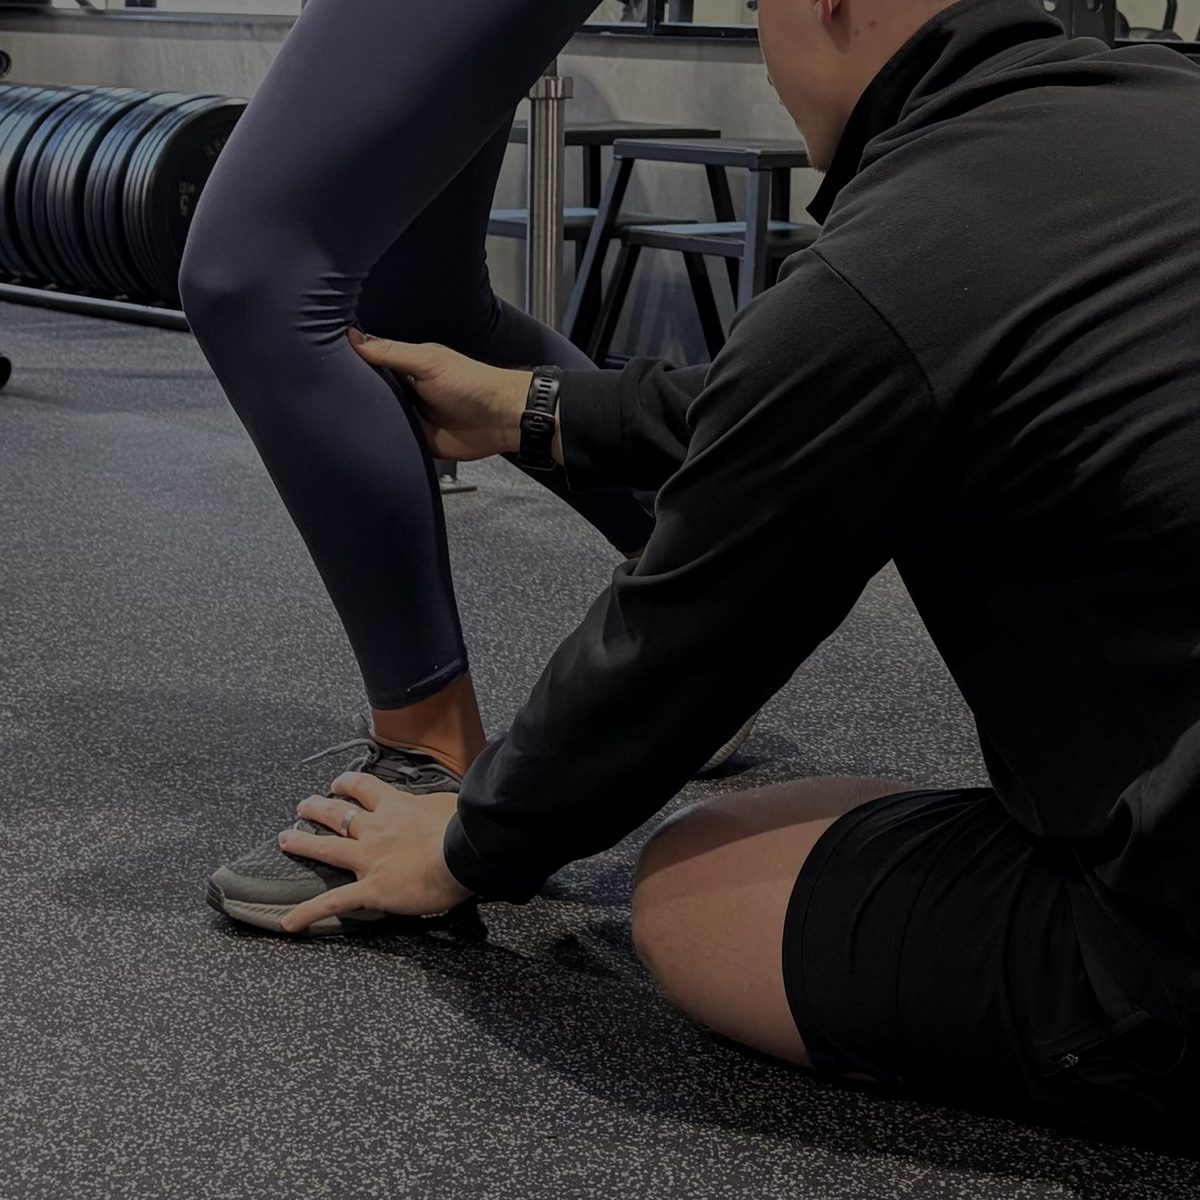
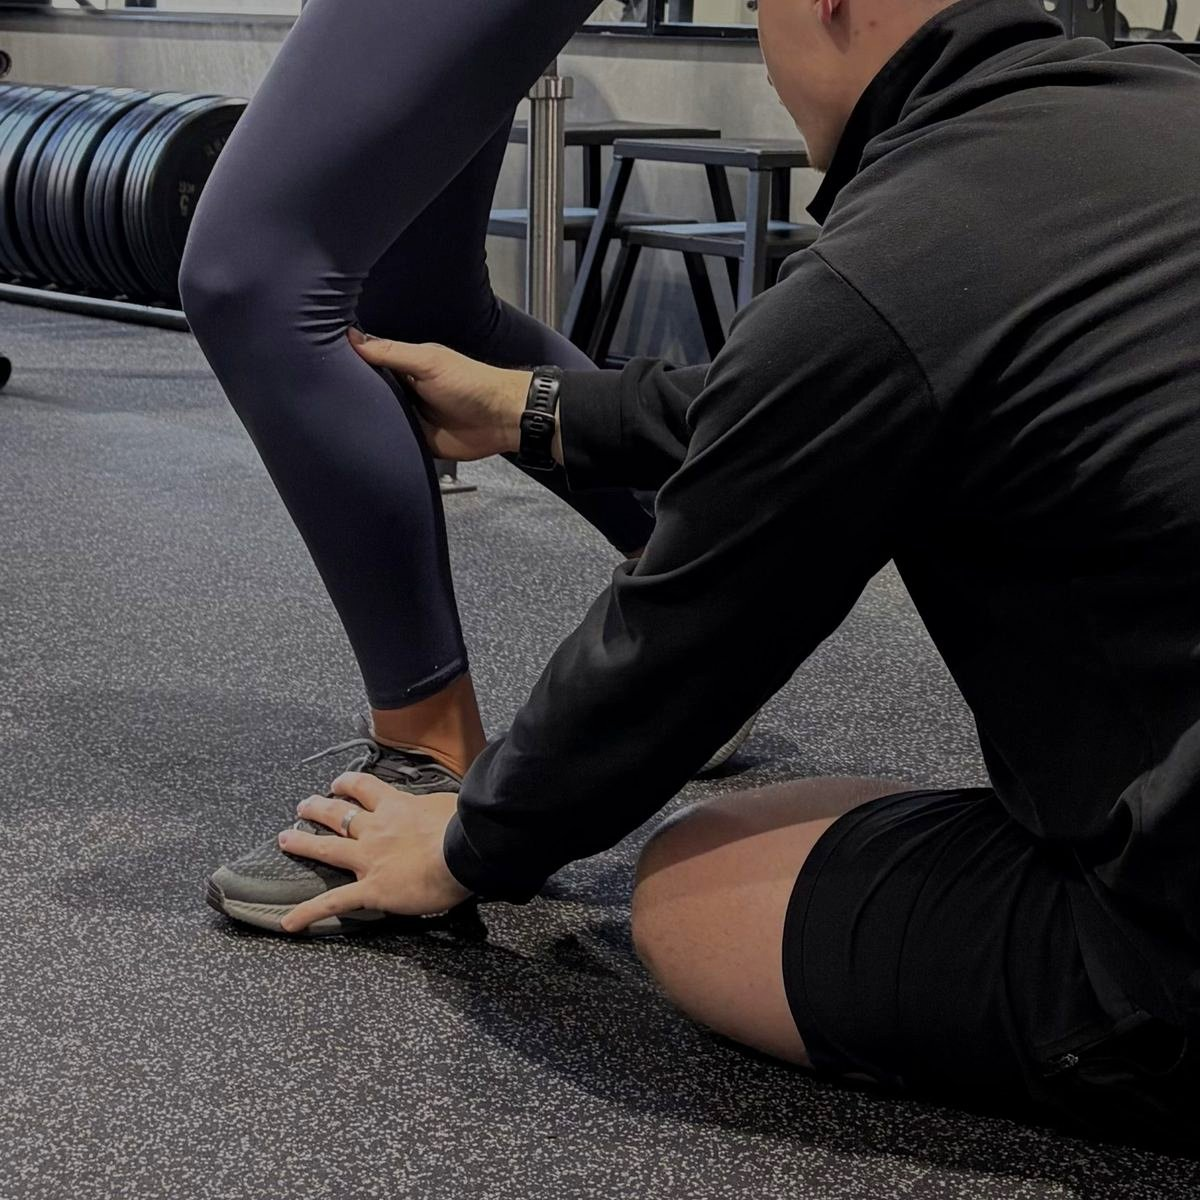
Add files via upload

diff --git a/mitch-scott-rehab 4/styles.css b/mitch-scott-rehab 4/styles.css
@@ -189,9 +189,9 @@ p{ color:var(--moss); max-width:60ch; }
 .hero{
   padding:96px 0 70px;
 }
-.hero .wrap{ max-width:1400px; }
+.hero .wrap{ max-width:1280px; }
 .hero-grid{
-  display:grid; grid-template-columns:1fr 480px; gap:40px; align-items:start;
+  display:grid; grid-template-columns:1fr 420px; gap:40px; align-items:start;
 }
 .hero-eyebrow{ white-space:nowrap; border:none; padding:0; border-radius:0; }
 @media (max-width:900px){
@@ -200,7 +200,7 @@ p{ color:var(--moss); max-width:60ch; }
 }
 
 .cycle-visual{ display:flex; align-items:flex-start; justify-content:flex-end; margin-top:54px; }
-.cycle-visual svg{ width:100%; max-width:460px; height:auto; overflow:visible; }
+.cycle-visual svg{ width:100%; max-width:400px; height:auto; overflow:visible; }
 .cycle-visual .cycle-label{ font-family:var(--body); transition:opacity .4s ease, fill .3s ease; }
 .cycle-visual .cycle-center{ font-family:var(--display); font-weight:600; transition:fill .3s ease; }
 .cycle-visual .cycle-dot{ transition:fill .3s ease; }
@@ -209,13 +209,14 @@ p{ color:var(--moss); max-width:60ch; }
 .hero h1{ margin:18px 0 22px; }
 h1 em, h2 em, h3 em{
   font-family:var(--display); font-style:italic; font-weight:700;
+  margin-right:0.06em;
 }
 .hero h1 em{
   color:var(--forest);
   text-decoration:underline; text-decoration-color:var(--vivid);
   text-decoration-thickness:6px; text-underline-offset:6px;
 }
-.hero p.lead{ font-size:1.15rem; margin-bottom:32px; }
+.hero p.lead{ font-size:1.15rem; margin-bottom:24px; }
 .hero-ctas{ display:flex; gap:16px; flex-wrap:wrap; margin-bottom:28px; }
 .hero-note{ font-family:var(--mono); font-size:0.8rem; color:var(--moss); letter-spacing:0.02em; }
 
@@ -394,15 +395,6 @@ footer{ background:var(--ink); color:#B9C4B4; padding:64px 0 32px; }
    hides real content. */
 .reveal{ opacity:1; transform:none; }
 .js .reveal{ opacity:0; transform:translateY(26px); transition:opacity 1s cubic-bezier(.16,1,.3,1), transform 1s cubic-bezier(.16,1,.3,1); }
-
-/* Mobile only: the first (30-min) session tile on the in-person-sessions
-   page sits just low enough that its scroll-reveal animation (with stagger
-   delay) could take up to ~2s to appear, making the page look empty right
-   after navigating to it. Show it immediately on mobile; desktop and every
-   other reveal-animated element elsewhere are unaffected. */
-@media (max-width:900px){
-  .mobile-show-instantly{ opacity:1 !important; transform:none !important; transition:none !important; }
-}
 .js .reveal.in{ opacity:1; transform:none; }
 
 /* ============================================================

diff --git a/mitch-scott-rehab 4/in-person.html b/mitch-scott-rehab 4/in-person.html
@@ -32,33 +32,33 @@
 </header>
 
 <section class="offer-page-header">
-  <div class="wrap" style="max-width:760px">
+  <div class="wrap" style="max-width:1120px">
     <p class="eyebrow reveal">IN-PERSON · PINNACLE FITNESS ALBION</p>
     <h1 class="reveal">First time, or coming back?</h1>
-    <p class="reveal">Pick whichever applies so we can get you booked into the right session.</p>
-    <p class="reveal" style="margin-top:18px"><a href="index.html#solution" style="text-decoration:underline;color:var(--forest);font-size:0.9rem">← Back to all options</a></p>
   </div>
 </section>
 
 <section style="padding-top:20px">
   <div class="wrap" style="max-width:900px">
-    <div class="consult-grid">
+    <div class="consult-grid cascade-immediate-mobile">
 
       <div class="consult-card reveal">
         <p class="eyebrow" style="justify-content:center">NEW HERE</p>
         <h2>Initial Consultation</h2>
-        <p>Your first session with me. A full assessment of your injury, your movement, and what your sport actually demands from you.</p>
+        <p>Your first session with me. A full assessment of your injury, your movement, and what your training actually demands from you.</p>
         <a href="https://mitch-scott-rehab.au5.cliniko.com/bookings?business_id=1970647816577494027&amp;practitioner_id=1969447206637284849&amp;appointment_type_id=2021488754300039109" target="_blank" rel="noopener" class="btn btn-primary">Book initial consultation →</a>
       </div>
 
       <div class="consult-card reveal">
         <p class="eyebrow" style="justify-content:center">ALREADY WORKING WITH ME</p>
         <h2>Subsequent Consultation</h2>
-        <p>Already an existing client? Choose whichever session length fits what you need this time.</p>
+        <p>Already an existing client?<br>Choose whichever session length fits what you need this time.</p>
         <a href="in-person-sessions.html" class="btn btn-outline">Choose session length →</a>
       </div>
 
     </div>
+
+    <p style="text-align:center;margin-top:36px"><a href="index.html#solution" style="text-decoration:underline;color:var(--forest);font-size:0.9rem">← Back to all options</a></p>
   </div>
 </section>
 

diff --git a/mitch-scott-rehab 4/script.js b/mitch-scott-rehab 4/script.js
@@ -38,6 +38,19 @@ if (navToggle && navLinks) {
 
 /* Scroll reveal */
 const revealEls = document.querySelectorAll('.reveal');
+const isTouchDevice = window.matchMedia('(pointer: coarse)').matches || 'ontouchstart' in window;
+
+// On mobile, some pages have a grid of cards/tiles positioned far enough
+// down (below a tall header) that a mobile visitor would see an apparently
+// empty page until they scrolled. Any .reveal element inside a container
+// marked .cascade-immediate-mobile reveals right away on page load instead
+// of waiting for scroll - same stagger cascade, just triggered immediately.
+// Desktop is unaffected; those containers still wait for scroll there.
+const immediateEls = new Set();
+if (isTouchDevice) {
+  document.querySelectorAll('.cascade-immediate-mobile .reveal').forEach(el => immediateEls.add(el));
+}
+
 if ('IntersectionObserver' in window && revealEls.length) {
   const io = new IntersectionObserver((entries) => {
     // Entries that cross the threshold in the same scroll tick (e.g. a row
@@ -52,12 +65,18 @@ if ('IntersectionObserver' in window && revealEls.length) {
       }
     });
   }, { threshold: 0.1, rootMargin: '0px 0px -20% 0px' });
-  revealEls.forEach(el => io.observe(el));
+  revealEls.forEach(el => { if (!immediateEls.has(el)) io.observe(el); });
 } else {
   // IntersectionObserver isn't supported at all in this browser - show
   // everything immediately rather than leaving real content invisible.
   revealEls.forEach(el => el.classList.add('in'));
 }
+
+// Trigger the immediate-cascade elements right away (still staggered).
+Array.from(immediateEls).forEach((el, i) => {
+  el.style.transitionDelay = (Math.min(i, 5) * 200) + 'ms';
+  el.classList.add('in');
+});
 
 /* FAQ accordion */
 document.querySelectorAll('.faq-item').forEach(item => {

diff --git a/mitch-scott-rehab 4/index.html b/mitch-scott-rehab 4/index.html
@@ -111,7 +111,7 @@
     <div class="section-head reveal" style="max-width:860px">
       <p class="eyebrow">SOUND FAMILIAR?</p>
       <h2>You're doing everything right.<br>It's still <em>not working</em>.</h2>
-      <p style="margin-top:18px">This usually isn't a discipline problem. It's a structure problem.</p>
+      <p style="margin-top:18px">It might not be a you problem, it might be the system you're stuck in.</p>
       <p style="margin-top:18px">You've rested it. Seen someone about it. It's still there. Every unanswered question <em>costs you</em> another week of training, another event crossed off the calendar. You don't need more rest. You need <em>better answers</em>.</p>
     </div>
 

diff --git a/mitch-scott-rehab 4/in-person-sessions.html b/mitch-scott-rehab 4/in-person-sessions.html
@@ -30,10 +30,10 @@
 
 <section style="padding-top:20px">
   <div class="wrap">
-    <div class="pricing-grid">
+    <div class="pricing-grid cascade-immediate-mobile">
 
       <!-- 30 MIN -->
-      <div class="price-tile reveal mobile-show-instantly">
+      <div class="price-tile reveal">
         <h3 class="tile-name">30 Minute Session</h3>
         <p class="tile-sub">For when something feels off and you don't want to wait a week to find out what to do.</p>
 
